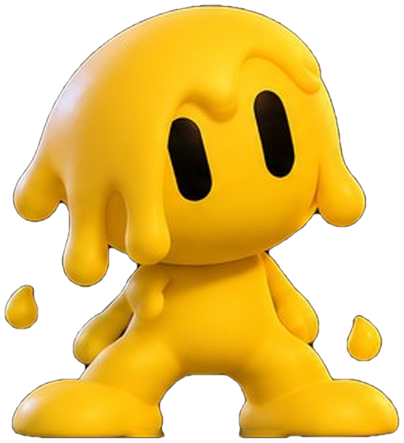
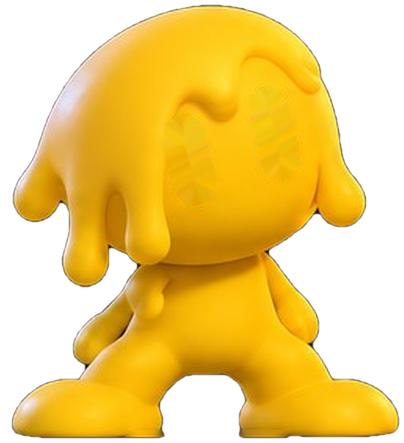
Avatare mit Eigenleben: Golem-Steine, Geist-Blasen, Schleim-Tropfen schweben; Augen schauen umher; Pinguin zwinkert; Partikel je Figur
Claude-Session: https://claude.ai/code/session_01XuEgEKXH5CVDx1qfGUkAmV

diff --git a/public/css/style.css b/public/css/style.css
@@ -1081,3 +1081,49 @@ body.drop-ready .table-surface { box-shadow: 0 0 0 1.2cqw rgba(110,230,140,.8), 
 @keyframes av-glow { 0%,100% { opacity: .15; } 35% { opacity: .85; } 60% { opacity: .45; } 80% { opacity: .75; } }
 @keyframes av-rise { 0%,100% { background-position: 0 4%, 3% 8%, -3% 5%; } 50% { background-position: 0 -6%, -4% -10%, 4% -8%; } }
 @media (prefers-reduced-motion: reduce) { .av-feuer .fb::after { animation: none; opacity: .4; } }
+
+/* ---------- Einzigartiges je Avatar: lose Teile + Partikel ---------- */
+.fig .bit { position: absolute; z-index: 1; pointer-events: none; object-fit: fill; filter: drop-shadow(0 3px 3px rgba(0,0,0,.4));
+  animation: av-bit var(--bt, 5s) ease-in-out var(--bd, 0s) infinite; --amp: 1; }
+.board .fig { --amp: .45; }
+@keyframes av-bit {
+  0%,100% { translate: 0 0; rotate: 0deg; }
+  25% { translate: calc(var(--ax) * var(--amp)) calc(var(--ay) * var(--amp) * -.6); rotate: calc(var(--ar) * var(--amp)); }
+  50% { translate: 0 calc(var(--ay) * var(--amp) * -1); rotate: 0deg; }
+  75% { translate: calc(var(--ax) * var(--amp) * -1) calc(var(--ay) * var(--amp) * -.4); rotate: calc(var(--ar) * var(--amp) * -1); }
+}
+.fig .fx { position: absolute; inset: 0; z-index: 1; pointer-events: none; overflow: visible; }
+.fig .fx i { position: absolute; left: var(--x); bottom: 55%; width: var(--sz); aspect-ratio: 1; opacity: 0; font-style: normal; line-height: 1;
+  font-size: calc(var(--sz) * 1.5); text-align: center; animation: fx-rise 6s linear var(--dl, 0s) infinite; }
+.fx.spark i { border-radius: 50%; background: radial-gradient(circle, #fff3b0 0 30%, #ffb02e 60%, transparent 72%); box-shadow: 0 0 6px 1px rgba(255,160,40,.7); }
+.fx.bubble i { border-radius: 50%; border: 1.2px solid rgba(220,245,255,.8); background: radial-gradient(circle at 30% 30%, rgba(255,255,255,.7), rgba(180,225,255,.15) 55%); animation-duration: 5s; }
+.fx.snow i { border-radius: 50%; background: #fff; bottom: auto; top: 6%; box-shadow: 0 0 5px rgba(255,255,255,.8); animation-name: fx-fall; animation-duration: 6s; }
+.fx.heart i { color: #ff8fc6; text-shadow: 0 0 6px rgba(255,120,190,.8); animation-duration: 6s; }
+.fx.star i { color: #fff6bf; text-shadow: 0 0 7px rgba(255,240,150,.9); bottom: auto; top: calc(8% + var(--x) * .6); animation-name: fx-twinkle; animation-duration: 3s; }
+.fx.smoke i { border-radius: 50%; background: radial-gradient(circle, rgba(120,80,190,.55), transparent 70%); filter: blur(1.5px); width: calc(var(--sz) * 3); animation-duration: 6s; animation-name: fx-smoke; }
+@keyframes fx-rise { 0% { translate: 0 0; opacity: 0; scale: .6; } 15% { opacity: .95; } 100% { translate: var(--dx) -30cqmin; opacity: 0; scale: 1; } }
+@keyframes fx-fall { 0% { translate: 0 0; opacity: 0; } 15% { opacity: .9; } 100% { translate: var(--dx) 28cqmin; opacity: 0; } }
+@keyframes fx-twinkle { 0%,100% { opacity: 0; scale: .4; rotate: 0deg; } 50% { opacity: 1; scale: 1.1; rotate: 25deg; } }
+@keyframes fx-smoke { 0% { translate: 0 0; opacity: 0; scale: .6; } 25% { opacity: .8; } 100% { translate: var(--dx) -22cqmin; opacity: 0; scale: 1.8; } }
+.board .fig .fx { opacity: .55; }
+.me-bust .fig .fx, .me-bust .fig .bit { display: none; }
+@media (prefers-reduced-motion: reduce) { .fig .bit, .fig .fx i { animation: none !important; } .fig .fx { display: none; } }
+
+/* Augen: schauen ab und zu woanders hin, blinzeln; Pinguin zwinkert */
+.fig .eyes, .fig .wink { position: absolute; z-index: 1; pointer-events: none; object-fit: fill; transform-origin: 50% 50%; }
+.fig .eyes { animation: av-look 12s ease-in-out var(--d, 0s) infinite; }
+.av-geist .eyes { animation-duration: 15s; } .av-krake .eyes { animation-duration: 10s; } .av-schleim .eyes { animation-duration: 20s; }
+@keyframes av-look {
+  0%,38%,100% { translate: 0 0; scale: 1 1; }
+  40% { scale: 1 .08; } 42% { scale: 1 1; }
+  52%,66% { translate: 1.5cqmin -.3cqmin; }
+  72%,86% { translate: -1.5cqmin .4cqmin; }
+  93% { translate: 0 0; }
+}
+.fig .wink { animation: av-wink 10s ease-in-out var(--d, 0s) infinite; }
+@keyframes av-wink { 0%,84%,100% { scale: 1 1; } 87%,93% { scale: 1.1 .12; } }
+.fig .wstar { position: absolute; z-index: 2; pointer-events: none; font-style: normal; font-size: 5.5cqmin; color: #fff6bf; text-shadow: 0 0 6px #ffe680; opacity: 0;
+  animation: av-wstar 10s ease-in-out var(--d, 0s) infinite; }
+@keyframes av-wstar { 0%,86%,100% { opacity: 0; scale: .3; } 90% { opacity: 1; scale: 1.1; rotate: 20deg; } 95% { opacity: 0; scale: .5; } }
+.me-bust .fig .eyes, .me-bust .fig .wink, .me-bust .fig .wstar { animation: none; }
+@media (prefers-reduced-motion: reduce) { .fig .eyes, .fig .wink, .fig .wstar { animation: none !important; } }

diff --git a/public/js/app.js b/public/js/app.js
@@ -118,9 +118,40 @@
     const h = av.hat;
     return `<span class="hat ${/krone|liga_|^dev$/.test(hat) ? 'crown' : ''}" style="left:${h.x}%;top:${h.y}%;width:${h.w}%;--hs:${(window.HAT_FIT || {})[hat] || 1.25};--hk:${(window.HAT_SINK || {})[hat] || 85}%">${window.HATS[hat]}</span>`;
   }
+  /* Lose Teile (Steine, Blasen, Tropfen) schweben frei; Partikel je Figur */
+  const FX = { feuer: ['spark', 6], teufel: ['spark', 4], schatten: ['smoke', 3], hai: ['bubble', 4], krake: ['bubble', 4], pinguin: ['snow', 6], hase: ['heart', 3], weiss: ['star', 4], alien: ['star', 4] };
+  const SYM = { heart: '♥', star: '✦' };
+  function bitsHTML(a) {
+    const big = a.id === 'golem';
+    const now = (Date.now() / 1000) % 60;
+    return (a.bits || []).map((b, i) => {
+      const ax = ((i % 2 ? -1 : 1) * (big ? 3.2 + (i % 3) : 1.6 + (i % 2))).toFixed(1);
+      const ay = (big ? 3.4 + (i % 2) * 2 : 2.2 + (i % 2)).toFixed(1);
+      const ar = ((i % 2 ? -1 : 1) * (big ? 10 + i * 3 : 5)).toFixed(0);
+      const dur = [5, 6, 4, 6, 5][i % 5];
+      return `<img class="bit" src="${esc(b.src)}" alt="" draggable="false" style="left:${b.x}%;top:${b.y}%;width:${b.w}%;height:${b.h}%;--ax:${ax}cqmin;--ay:${ay}cqmin;--ar:${ar}deg;--bt:${dur}s;--bd:-${(now + i * 1.7).toFixed(2)}s">`;
+    }).join('');
+  }
+  function eyesHTML(a) {
+    const box = (e) => `left:${e.x}%;top:${e.y}%;width:${e.w}%;height:${e.h}%`;
+    let h = '';
+    if (a.eyes) h += `<img class="eyes" src="${esc(a.eyes.src)}" alt="" draggable="false" style="${box(a.eyes)}">`;
+    if (a.wink) h += `<img class="wink" src="${esc(a.wink.src)}" alt="" draggable="false" style="${box(a.wink)}"><i class="wstar" style="left:${(a.wink.x + a.wink.w * 0.9).toFixed(1)}%;top:${(a.wink.y - 4).toFixed(1)}%">✦</i>`;
+    return h;
+  }
+  function fxHTML(a) {
+    const f = FX[a.id]; if (!f) return '';
+    const [kind, n] = f; const now = (Date.now() / 1000) % 60;
+    let h = '';
+    for (let i = 0; i < n; i++) {
+      const x = 22 + ((i * 37 + a.id.length * 11) % 56);
+      h += `<i style="--x:${x}%;--sz:${(2.6 + (i * 7) % 3 * 1.1).toFixed(1)}cqmin;--dx:${((i % 2 ? 1 : -1) * (1 + i % 3)).toFixed(1)}cqmin;--dl:-${(now + i * 1.9).toFixed(2)}s">${SYM[kind] || ''}</i>`;
+    }
+    return `<span class="fx ${kind}" aria-hidden="true">${h}</span>`;
+  }
   function figHTML(id, cls = '', hat = null) {
     const a = avatarDef(id);
-    return `<span class="fig av-${esc(a.id)} ${cls}"><span class="fb" style="--ar:${a.ar || 1};--d:-${((Date.now() / 1000) % 60).toFixed(2)}s"><img src="assets/avatars/${esc(a.id)}_cut.png" alt="${esc(a.name)}" data-e="${a.emoji}" onerror="this.replaceWith(Object.assign(document.createElement('b'),{textContent:this.dataset.e,className:'emo'}))">${hatHTML(a, hat)}</span></span>`;
+    return `<span class="fig av-${esc(a.id)} ${cls}"><span class="fb" style="--ar:${a.ar || 1};--d:-${((Date.now() / 1000) % 60).toFixed(2)}s"><img src="assets/avatars/${esc(a.id)}_cut.png" alt="${esc(a.name)}" data-e="${a.emoji}" onerror="this.replaceWith(Object.assign(document.createElement('b'),{textContent:this.dataset.e,className:'emo'}))">${bitsHTML(a)}${eyesHTML(a)}${fxHTML(a)}${hatHTML(a, hat)}</span></span>`;
   }
   const LOGO = (cls = '') => `<img class="logo-img ${cls}" src="assets/logo.png" alt="UNKNOWN" draggable="false">`;
   function avatarPicker(selected, taken = []) {

diff --git a/public/sw.js b/public/sw.js
@@ -1,7 +1,7 @@
 'use strict';
 /* UNKNOWN – Service Worker: App-Hülle und Bilder offline zwischenspeichern.
    Spielstand läuft ausschließlich über WebSocket und wird nie gecacht. */
-const VERSION = 'unknown-v46';
+const VERSION = 'unknown-v48';
 const SHELL = ['/', '/css/style.css', '/js/app.js', '/data/sets.json', '/data/avatars.json', '/manifest.webmanifest', '/assets/logo.png'];
 
 self.addEventListener('install', (e) => {

diff --git a/tools/split_eyes.py b/tools/split_eyes.py
@@ -1,0 +1,46 @@
+#!/usr/bin/env python3
+"""Löst Augen (dunkle Formen) aus einem Freisteller und füllt die Fläche weich auf.
+Aufruf: python3 tools/split_eyes.py <id> x0 y0 x1 y1 [--wink]   (Box in Bildpixeln um die Augen)
+--wink: nur das rechte (größte x) Auge lösen. Schreibt assets/avatars/bits/<id>_eyes.png / _wink.png und trägt es in avatars.json ein."""
+import sys, json, numpy as np
+from PIL import Image
+from scipy import ndimage as ndi
+i=sys.argv[1]; x0,y0,x1,y1=map(int,sys.argv[2:6]); wink='--wink' in sys.argv
+f=f'public/assets/avatars/{i}_cut.png'
+im=np.array(Image.open(f).convert('RGBA')); H,W=im.shape[:2]
+box=np.zeros((H,W),bool); box[y0:y1,x0:x1]=True
+light='--light' in sys.argv
+dark=((im[...,:3].sum(2)>520) if light else (im[...,:3].sum(2)<300))&box&(im[...,3]>100)
+l,k=ndi.label(dark); sz=ndi.sum(dark,l,range(1,k+1))
+order=np.argsort(sz)[::-1][:(4 if '--light' in sys.argv else 2)]+1
+comps=[l==o for o in order if sz[o-1]>40]
+if wink: comps=[max(comps,key=lambda c:np.where(c)[1].mean())]
+piece=np.zeros((H,W),bool)
+for c in comps: piece|=c
+piece=ndi.binary_dilation(piece,iterations=6 if light else 5)&(im[...,3]>0)
+ys,xs=np.where(piece); a1,a2,b1,b2=ys.min(),ys.max()+1,xs.min(),xs.max()+1
+# Auge als eigene Ebene: Alpha aus Dunkelheit
+if light:
+    dk=np.clip((im[...,:3].sum(2)-420)/260,0,1)*piece; layer=np.zeros_like(im); layer[...,:3]=im[...,:3]
+else:
+    dk=np.clip((360-im[...,:3].sum(2))/220,0,1)*piece; layer=np.zeros_like(im); layer[...,:3]=np.minimum(im[...,:3],45)
+layer[...,3]=(dk*255).astype(np.uint8)
+Image.fromarray(layer[a1:a2,b1:b2],'RGBA').save(f'public/assets/avatars/bits/{i}_{"wink" if wink else "eyes"}.png')
+# Fläche weich auffüllen (normalisierte Faltung, iterativ)
+out=im.astype(float); known=(~piece)&(im[...,3]>0)
+rgb=out[...,:3].copy(); filled=known.copy()
+for it in range(60):
+    w=filled.astype(float)
+    num=np.dstack([ndi.uniform_filter(rgb[...,c]*w,5) for c in range(3)]); den=ndi.uniform_filter(w,5)
+    new=num/np.maximum(den[...,None],1e-6)
+    upd=(~filled)&(den>0.05)
+    rgb[upd]=new[upd]; filled|=upd
+    if filled[piece].all(): break
+res=im.copy(); res[piece,:3]=np.clip(rgb[piece],0,255).astype(np.uint8)
+Image.fromarray(res,'RGBA').save(f)
+d=json.load(open('public/data/avatars.json'))
+for a in d:
+    if a['id']==i: a['wink' if wink else 'eyes']=dict(src=f'assets/avatars/bits/{i}_{"wink" if wink else "eyes"}.png',x=round(b1/W*100,2),y=round(a1/H*100,2),w=round((b2-b1)/W*100,2),h=round((a2-a1)/H*100,2))
+json.dump(d,open('public/data/avatars.json','w'),ensure_ascii=False,indent=1)
+bg=Image.new('RGBA',(W,H),(255,0,255,255)); bg.alpha_composite(Image.fromarray(res,'RGBA')); bg.save(f'/tmp/eyes_{i}.png')
+print(i,len(comps),'Augen',b1,a1,b2,a2)
